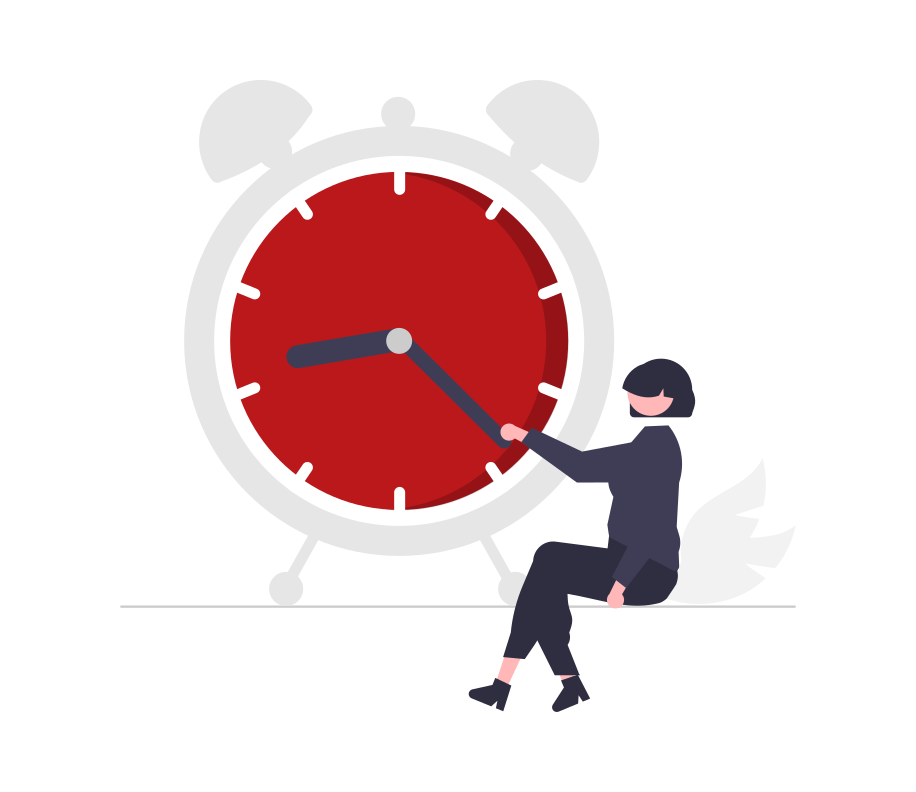
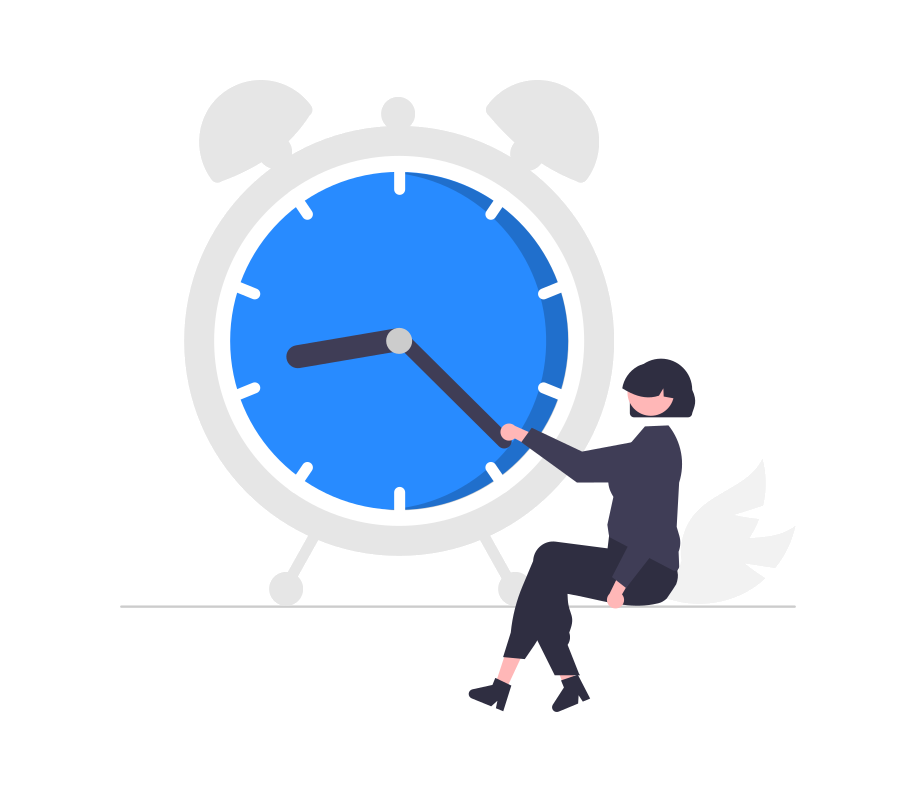
New styles and countdown functions in Test.tsx

Changed region(s): [[0.2445, 0.2121, 0.6419, 0.6667]]

diff --git a/src/App.css b/src/App.css
@@ -20,7 +20,7 @@
           justify-content: start;
   min-height: 100vh;
   padding: 25px;
-  background-color: #262626;
+  background-color: #001326;
 }
 
 .title-home {
@@ -29,7 +29,7 @@
   font-size: 32px;
   color: #fff;
   margin: 20px 0px;
-  border-bottom: 1px solid gray;
+  border-bottom: 1px solid #BABCBE;
 }
 
 .instruction-home {
@@ -46,9 +46,9 @@
 
 .btn {
   padding: 12px 26px;
-  margin: 15px 15px;
+  margin: 15px;
   border-radius: 6px;
-  background-color: #ba181b;
+  background-color: #3253DC;
   border: none;
   color: #fff;
   font-size: 18px;
@@ -56,11 +56,10 @@
           box-shadow: rgba(0, 0, 0, 0.35) 0px 5px 10px;
   text-decoration: none;
   outline: none;
-  cursor: pointer;
 }
 
 .btn:hover {
-  background-color: #961417;
+  background-color: #2749d1;
 }
 
 .config-icon {
@@ -71,7 +70,7 @@
           box-shadow: rgba(0, 0, 0, 0.35) 0px 5px 10px;
   border-radius: 6px;
   padding: 25px;
-  background-color: #ba181b;
+  background-color: #3253DC;
 }
 
 .box-settings {
@@ -138,7 +137,7 @@ input {
           justify-content: space-between;
   color: #fff;
   margin: 25px 0px;
-  border-bottom: 1px solid gray;
+  border-bottom: 1px solid #BABCBE;
 }
 
 .clock h1 {
@@ -149,6 +148,7 @@ input {
 .clock h4 {
   font-size: 32px;
   padding-bottom: 16px;
+  color: #3253DC;
 }
 
 .task {
@@ -164,13 +164,22 @@ input {
 
 .controls {
   padding: 10px;
+  display: -webkit-box;
+  display: -ms-flexbox;
+  display: flex;
+  -webkit-box-align: center;
+      -ms-flex-align: center;
+          align-items: center;
+  -webkit-box-pack: center;
+      -ms-flex-pack: center;
+          justify-content: center;
 }
 
 .control {
-  padding: 22px;
-  margin: 15px 15px;
+  padding: 30px;
+  margin: 15px;
   border-radius: 50%;
-  background-color: #ba181b;
+  background-color: #3253DC;
   border: none;
   color: #fff;
   font-size: 18px;
@@ -178,11 +187,22 @@ input {
           box-shadow: rgba(0, 0, 0, 0.35) 0px 5px 10px;
   text-decoration: none;
   outline: none;
+  height: 20px;
+  width: 20px;
+  display: -webkit-box;
+  display: -ms-flexbox;
+  display: flex;
+  -webkit-box-align: center;
+      -ms-flex-align: center;
+          align-items: center;
+  -webkit-box-pack: center;
+      -ms-flex-pack: center;
+          justify-content: center;
   cursor: pointer;
 }
 
 .control:hover {
-  background-color: #961417;
+  background-color: #2749d1;
 }
 
 .back {
@@ -226,7 +246,7 @@ input {
   font-size: 30px;
   background: none;
   border: none;
-  color: gray;
+  color: #288BFF;
 }
 
 #twitter:hover {
@@ -243,6 +263,6 @@ input {
 
 .author {
   font-size: 20px;
-  color: gray;
+  color: #288BFF;
 }
 /*# sourceMappingURL=App.css.map */

diff --git a/src/App.scss b/src/App.scss
@@ -4,7 +4,8 @@
   font-family: "Roboto", sans-serif;
 }
 
-$primary: #ba181b;
+$primary: #3253DC;
+$secondary: #288BFF;
 $alignText: center;
 $h1Font: 32px;
 $pFont: 22px;
@@ -16,7 +17,7 @@ $paddingFont: 15px;
 @mixin containers {
   min-height: 100vh;
   padding: 25px;
-  background-color: #262626;
+  background-color: #001326;
 }
 
 @mixin alignElements($justify) {
@@ -28,7 +29,7 @@ $paddingFont: 15px;
 
 @mixin buttonPrimary($padding, $radius) {
   padding: $padding;
-  margin: 15px 15px;
+  margin: 15px;
   border-radius: $radius;
   background-color: $primary;
   border: none;
@@ -37,11 +38,10 @@ $paddingFont: 15px;
   box-shadow: $shadowBox;
   text-decoration: none;
   outline: none;
-  cursor: pointer;
 }
 
 @mixin buttonPrimaryHover {
-  background-color: #961417;
+  background-color: #2749d1;
 }
 
 @mixin inputs {
@@ -63,7 +63,7 @@ $paddingFont: 15px;
   font-size: $h1Font;
   color: #fff;
   margin: 20px 0px;
-  border-bottom: 1px solid gray;
+  border-bottom: 1px solid #BABCBE;
 }
 
 .instruction-home {
@@ -136,7 +136,7 @@ input {
   @include alignElements(space-between);
   color: #fff;
   margin: 25px 0px;
-  border-bottom: 1px solid gray;
+  border-bottom: 1px solid #BABCBE;
 
   h1 {
     font-size: 7rem;
@@ -146,6 +146,7 @@ input {
   h4 {
     font-size: $h1Font;
     padding-bottom: 16px;
+    color: $primary;
   }
 }
 
@@ -162,10 +163,19 @@ input {
 
 .controls {
   padding: 10px;
+  display: flex;
+  align-items: center;
+  justify-content: center;
 }
 
 .control {
-  @include buttonPrimary(22px, 50%);
+  @include buttonPrimary(30px, 50%);
+  height: 20px;
+  width: 20px;
+  display: flex;
+  align-items: center;
+  justify-content: center;
+  cursor: pointer;
 }
 
 .control:hover {
@@ -207,7 +217,7 @@ input {
   font-size: 30px;
   background: none;
   border: none;
-  color: gray;
+  color: $secondary;
 }
 
 #twitter:hover {
@@ -224,5 +234,5 @@ input {
 
 .author {
   font-size: 20px;
-  color: gray;
+  color: $secondary;
 }

diff --git a/src/pages/Test.tsx b/src/pages/Test.tsx
@@ -1,0 +1,56 @@
+import { useState } from "react";
+
+const Test = () => {
+
+  const [intervalId, setIntervalId] = useState(setInterval(() => {}));
+  const [seconds, setSeconds] = useState(15);
+  const [minutes, setMinutes] = useState(1);
+  const [buttonActivate, setButtonActivate] = useState(true);
+
+  //There are counters because the state of each variable doesn't work if I update it directly
+  var counterS = seconds;
+  var counterM = minutes;
+
+  const handlePlay = () => {
+    const timer = setInterval(() => {
+      if (counterS < 0) {
+        counterM--;
+        counterS = 15;
+      }
+      setMinutes(counterM);
+      setSeconds(counterS);
+      counterS--;
+      if (counterS < 0 && counterM === 0) {
+        clearInterval(timer);
+      }
+    }, 1000);
+    setIntervalId(timer);
+    setButtonActivate(false);
+  };
+
+  const handlePause = () => {
+    clearInterval(intervalId);
+    setButtonActivate(true);
+  };
+
+  const handleRestart = () => {
+    counterS = 15;
+    counterM = 1;
+    handlePlay();
+  };
+
+  return (
+    <div>
+      {buttonActivate && <button onClick={handlePlay}>Play</button>}
+      {buttonActivate && <button onClick={handleRestart}>Restart</button>}
+      {!buttonActivate && <button onClick={handlePause}>Pause</button>}
+      <h1>
+        {minutes < 10 && "0"}
+        {minutes}:{seconds < 10 && "0"}
+        {seconds}
+      </h1>
+    </div>
+  );
+};
+
+export default Test;

diff --git a/src/pages/PomodoroPage.tsx b/src/pages/PomodoroPage.tsx
@@ -10,16 +10,15 @@ const PomodoroPage = () => {
   return (
     <main className="container">
       <div className="clock">
-        <h1>05:00</h1>
+        <h1>{settings.work}:00</h1>
         <h4>Working...</h4>
         <p className="task">
           Your task: {settings.task}<span className="fas fa-pencil-alt"></span>
         </p>
       </div>
       <div className="controls">
-        <button className="fas fa-redo-alt control"></button>
         <button className="fas fa-play control"></button>
-        <button className="fas fa-stop control"></button>
+        <button className="fas fa-redo-alt control"></button>
       </div>
       <div className="back">
         <Link to="/settings">

diff --git a/src/context/SettingsContext.tsx b/src/context/SettingsContext.tsx
@@ -10,7 +10,7 @@ type HandleChange = ChangeEvent<HTMLInputElement | HTMLSelectElement>;
 const SettingsContext = createContext<SettingsContextProps>({} as SettingsContextProps);
 
 const initialSettings: SettingsState = {
-  work: 25,
+  work: 15,
   rest: 5,
   task: window.localStorage.getItem("task")
 }
@@ -21,7 +21,7 @@ const SettingsProvider = ({children}: SettingsProviderProps) => {
 
   const handleChange = ({ target: { name, value }}: HandleChange) => {
     setSettings({ ...settings, [name]: value });
-    if(name === "task" ) {
+    if(name === "task") {
       window.localStorage.setItem("task", value);
     }
   }

diff --git a/src/App.tsx b/src/App.tsx
@@ -4,6 +4,7 @@ import ConfigPage from "./pages/ConfigPage";
 import HomePage from "./pages/HomePage";
 import NotFound from "./pages/NotFound";
 import PomodoroPage from "./pages/PomodoroPage";
+import Test from "./pages/Test";
 
 function App() {
   return (
@@ -13,6 +14,7 @@ function App() {
           <Route path="/" element={<HomePage />} />
           <Route path="/settings" element={<ConfigPage />} />
           <Route path="/pomodoro" element={<PomodoroPage />} />
+          <Route path="/test" element={<Test/>}/>
           <Route path="*" element={<NotFound />} />
         </Routes>
       </BrowserRouter>

diff --git a/src/pages/HomePage.tsx b/src/pages/HomePage.tsx
@@ -6,7 +6,7 @@ const HomePage = () => {
     <main className="container">
       <h1 className="title-home">Control your work and rest times with the pomodoro technique.</h1>
       <h3 className="instruction-home">Choose your work times and shorter break times to be more efficient.</h3>
-      <img className="img-home" src="/images/clock2.png" alt="Pomodoro Clock"/>
+      <img className="img-home" src="/images/clock.png" alt="Pomodoro Clock"/>
       <Link className="btn" to="/settings">Start</Link>
     </main>
   );
